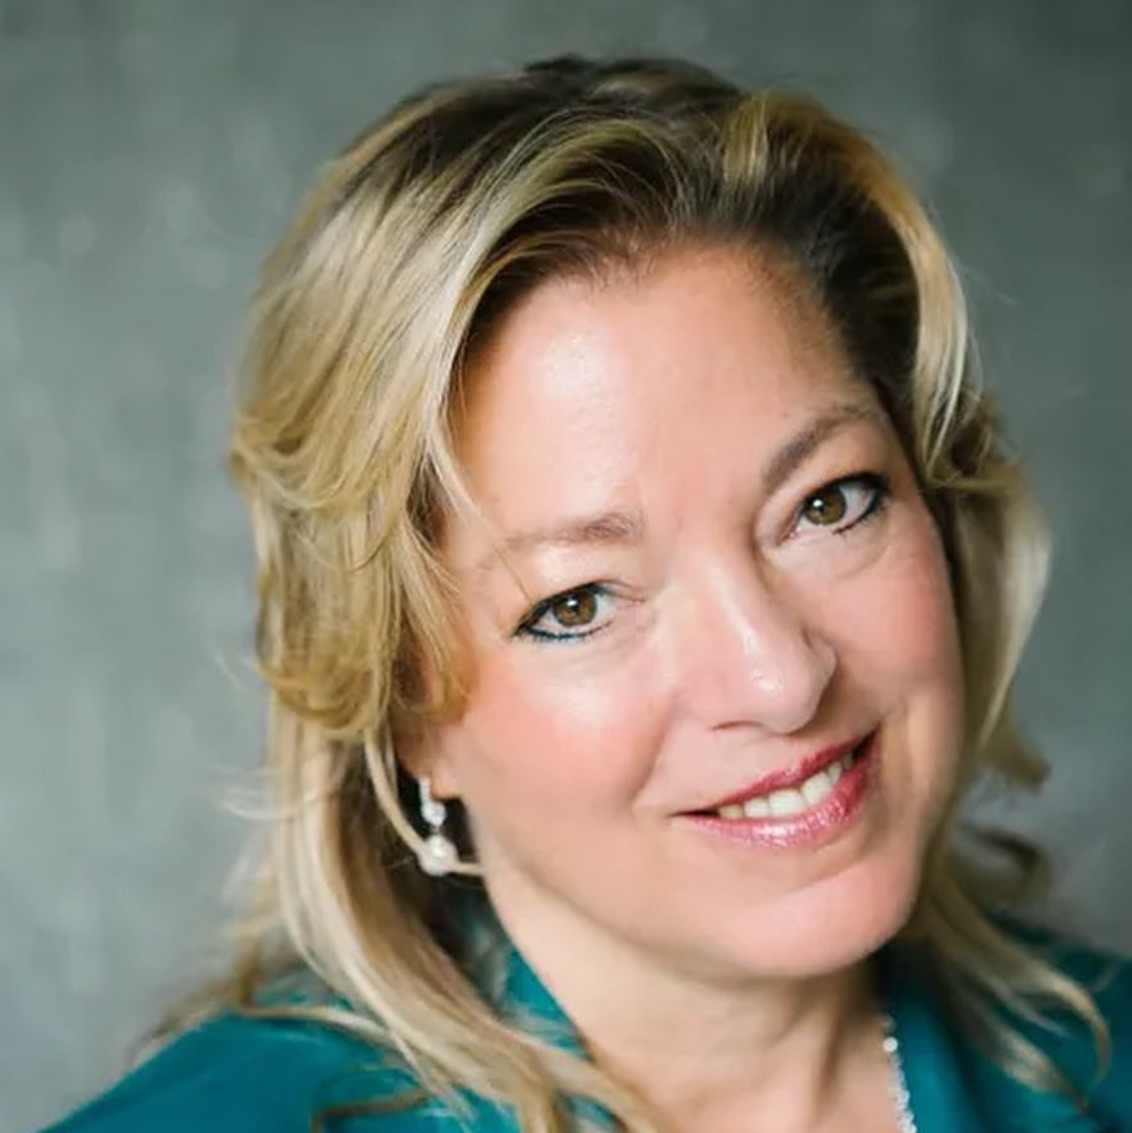
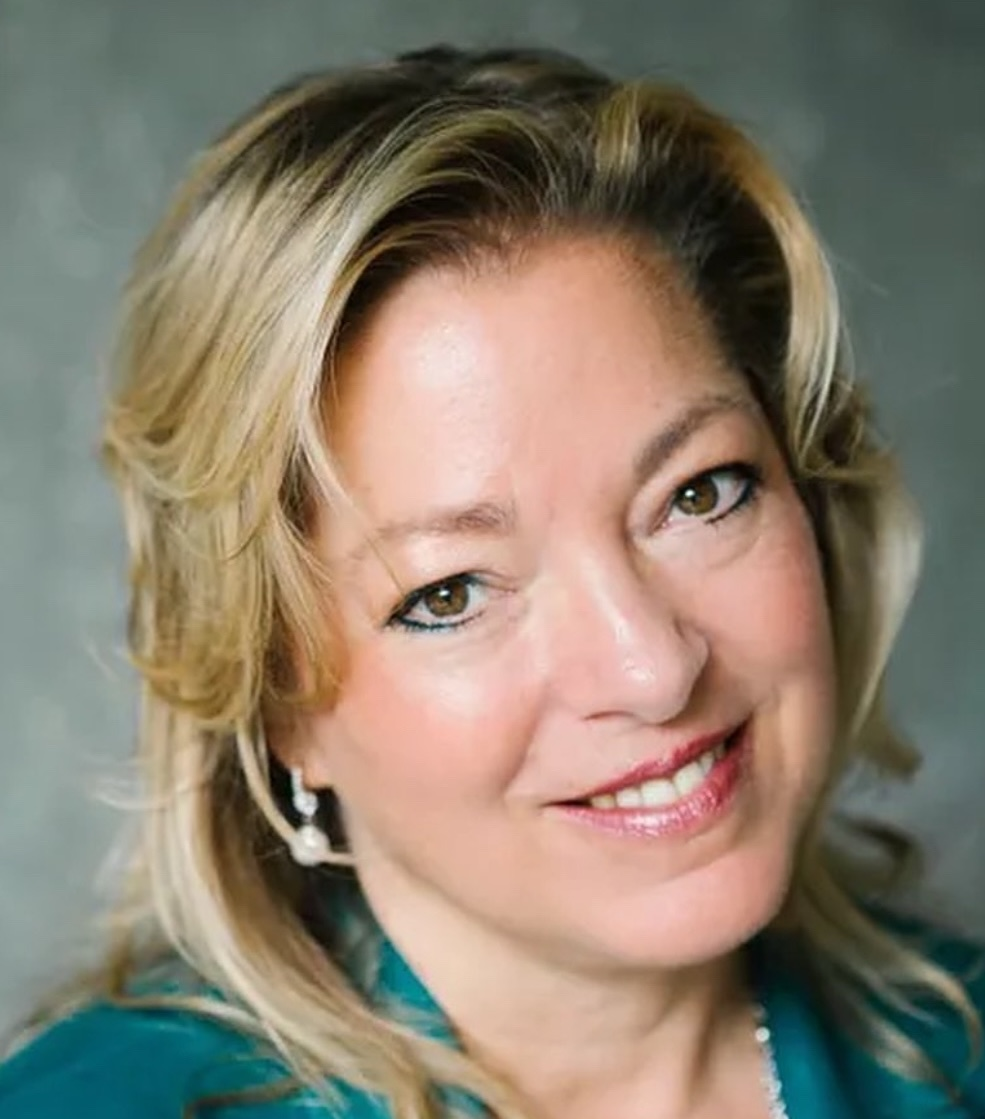
about image improved

diff --git a/src/components/About.tsx b/src/components/About.tsx
@@ -7,7 +7,7 @@ const About = () => {
   // Using a query parameter (v=timestamp) bypasses browser cache to ensure 
   // the newly uploaded file is detected immediately instead of a cached 404.
   const baseUrl = import.meta.env.BASE_URL || '/';
-  const [imgSrc, setImgSrc] = useState(`${baseUrl}shannon.jpg?v=` + new Date().getTime());
+  const [imgSrc, setImgSrc] = useState(`${baseUrl}shannon-cropped.png?v=` + new Date().getTime());
   const [hasError, setHasError] = useState(false);
 
   const handleImgError = () => {
@@ -32,7 +32,7 @@ const About = () => {
               src={imgSrc} 
               alt="Shannon Chapoy" 
               onError={handleImgError}
-              className="relative rounded-2xl shadow-xl w-full object-cover h-[700px] bg-gray-200"
+              className="relative rounded-2xl shadow-xl w-full object-cover object-left h-[450px] md:h-[600px] lg:h-[600px] bg-gray-200 -translate-x-2"
             />
           </div>
           
